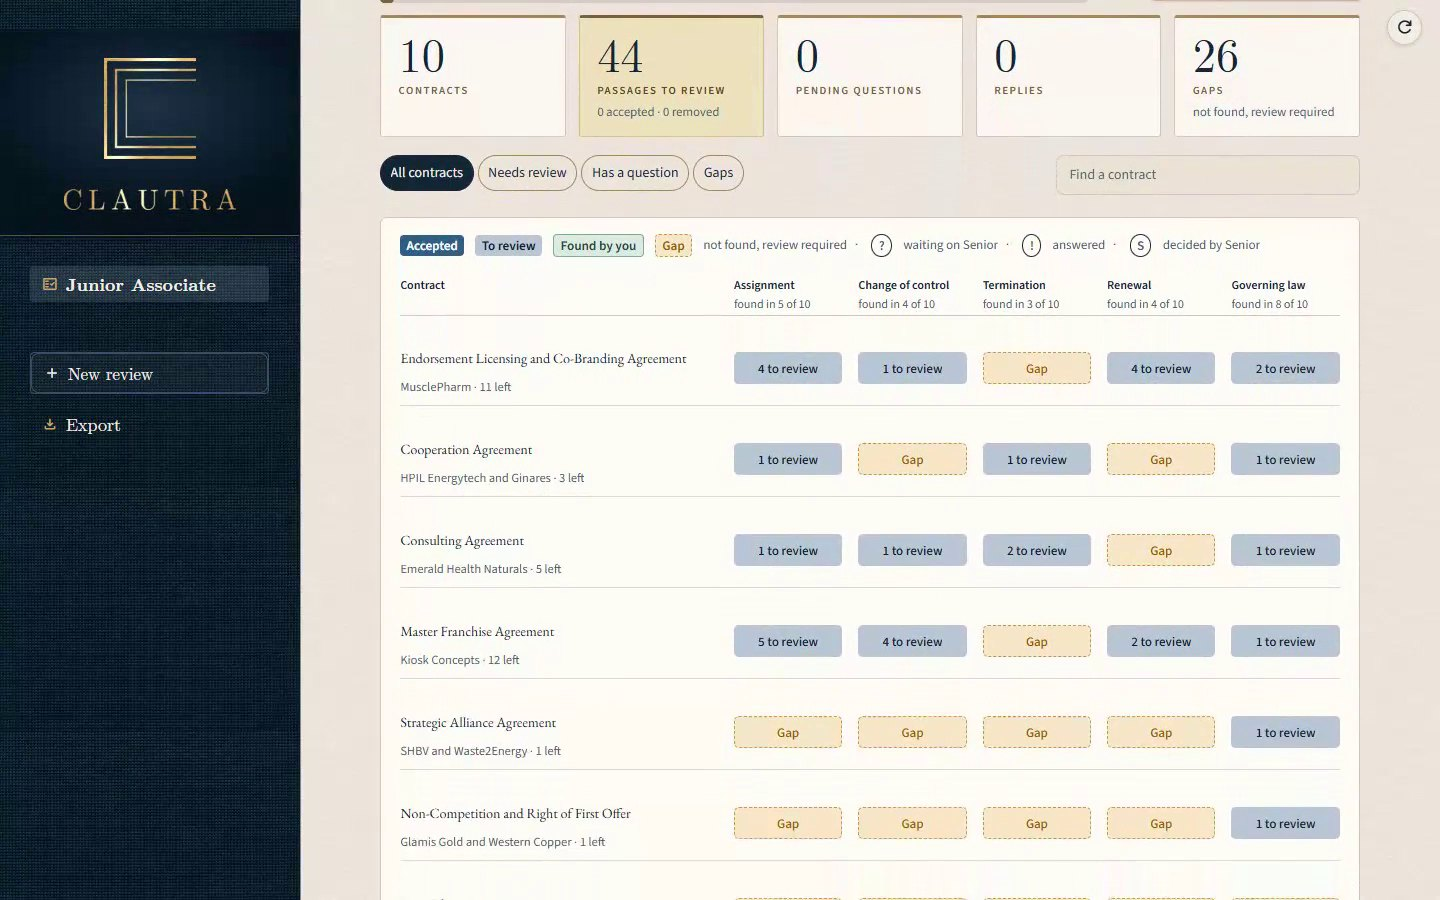
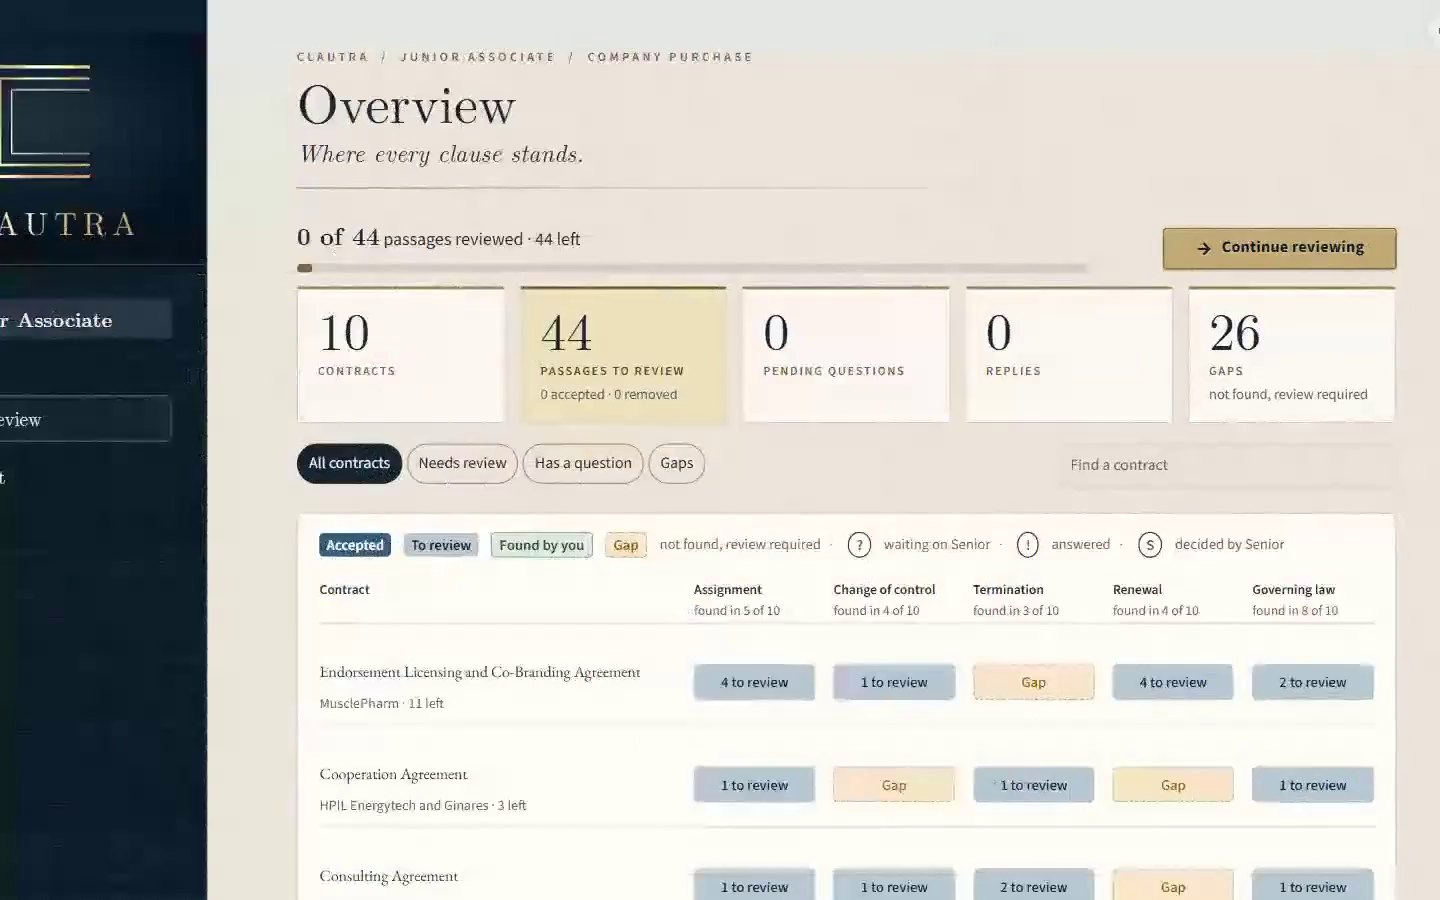
README: retake the screenshots from the 2:52 cut and drop the earlier-cut note
Claude-Session: https://claude.ai/code/session_01HjqCn8T7FoazQZ9FNP5k85

diff --git a/README.md b/README.md
@@ -22,7 +22,7 @@ Clautra reads a batch of contracts and, for five clause types, shows the exact w
 - **Ask your senior lawyer.** Flag a question on any finding. The senior lawyer reads it beside the passage and answers on their own page, and the question and answer go into the export.
 - **One table for the whole batch.** Upload many contracts at once and download one CSV to hand on.
 
-**Screenshots** (frames from the demo recording, on public contracts):
+**Screenshots** (frames from the 2:52 demo recording, on public contracts):
 
 ![The overview: ten contracts by five clause types, with each finding or gap visible](docs/images/clautra-overview.jpg)
 *The overview: every contract and clause type is a found passage to review or a flagged gap.*
@@ -33,7 +33,7 @@ Clautra reads a batch of contracts and, for five clause types, shows the exact w
 ![A gap with the senior lawyer's answer shown under the junior associate's question](docs/images/clautra-senior-answer.jpg)
 *A question to the senior lawyer, answered beside the passage.*
 
-The 2:52 demo recording is in the repo at [`src/static/video/clautra_demo.mp4`](src/static/video/clautra_demo.mp4); the earlier 2:28 cut is `clautra_demo_previous.mp4` in the same folder. The screenshots above come from an earlier cut of it.
+The 2:52 demo recording is in the repo at [`src/static/video/clautra_demo.mp4`](src/static/video/clautra_demo.mp4); the earlier 2:28 cut is `clautra_demo_previous.mp4` in the same folder.
 
 ## Two guarantees
 
